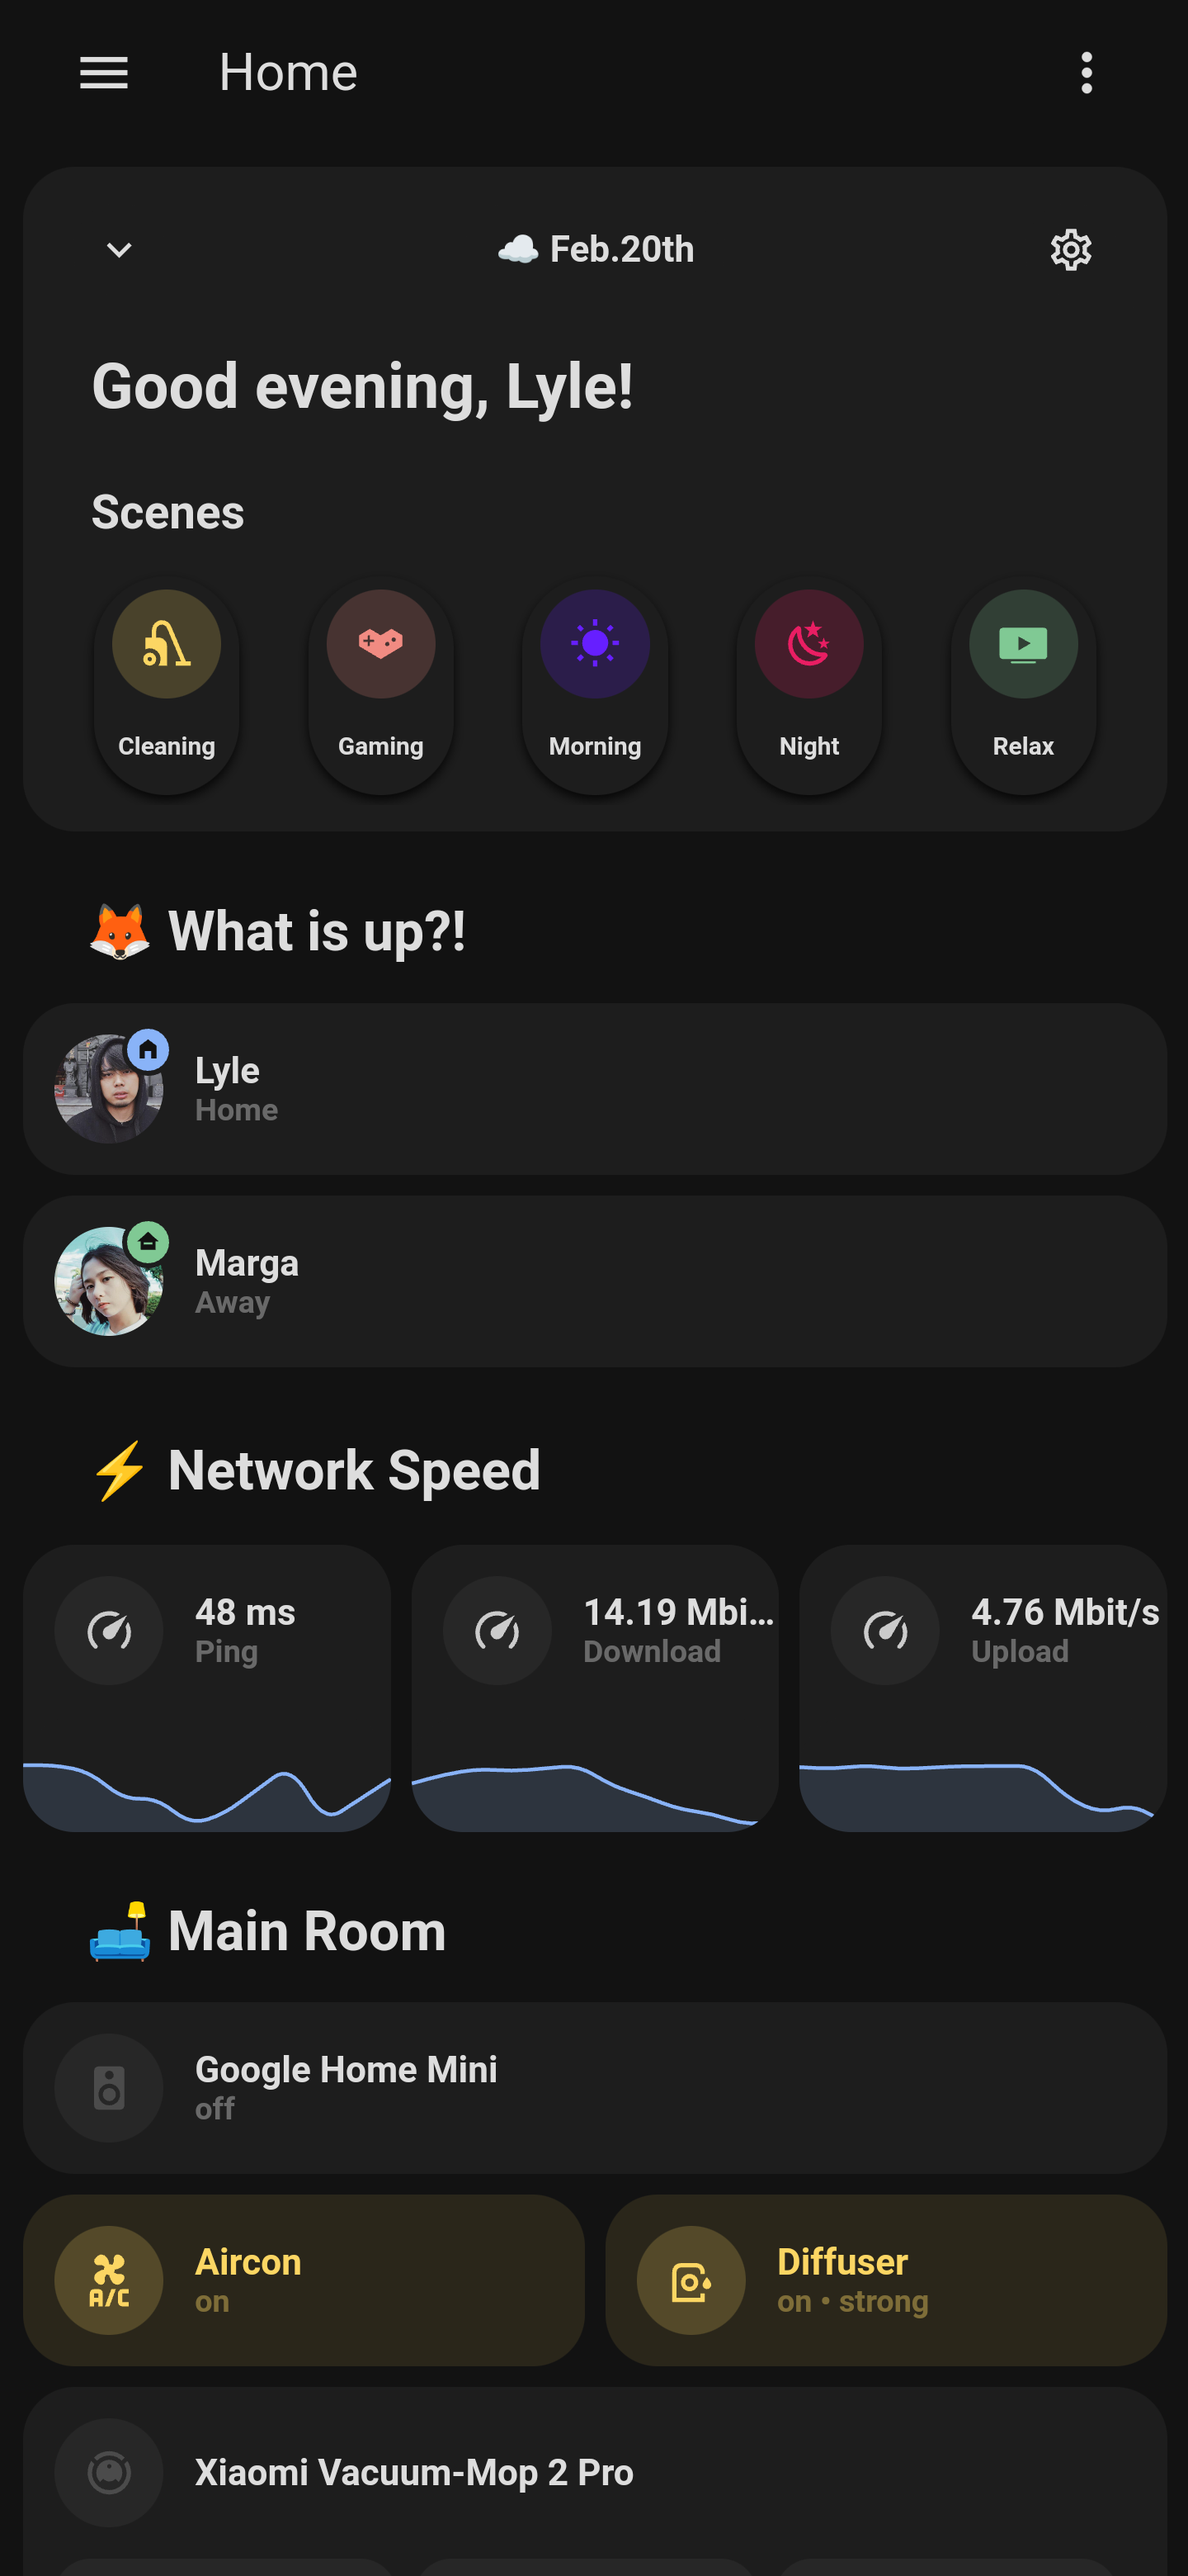
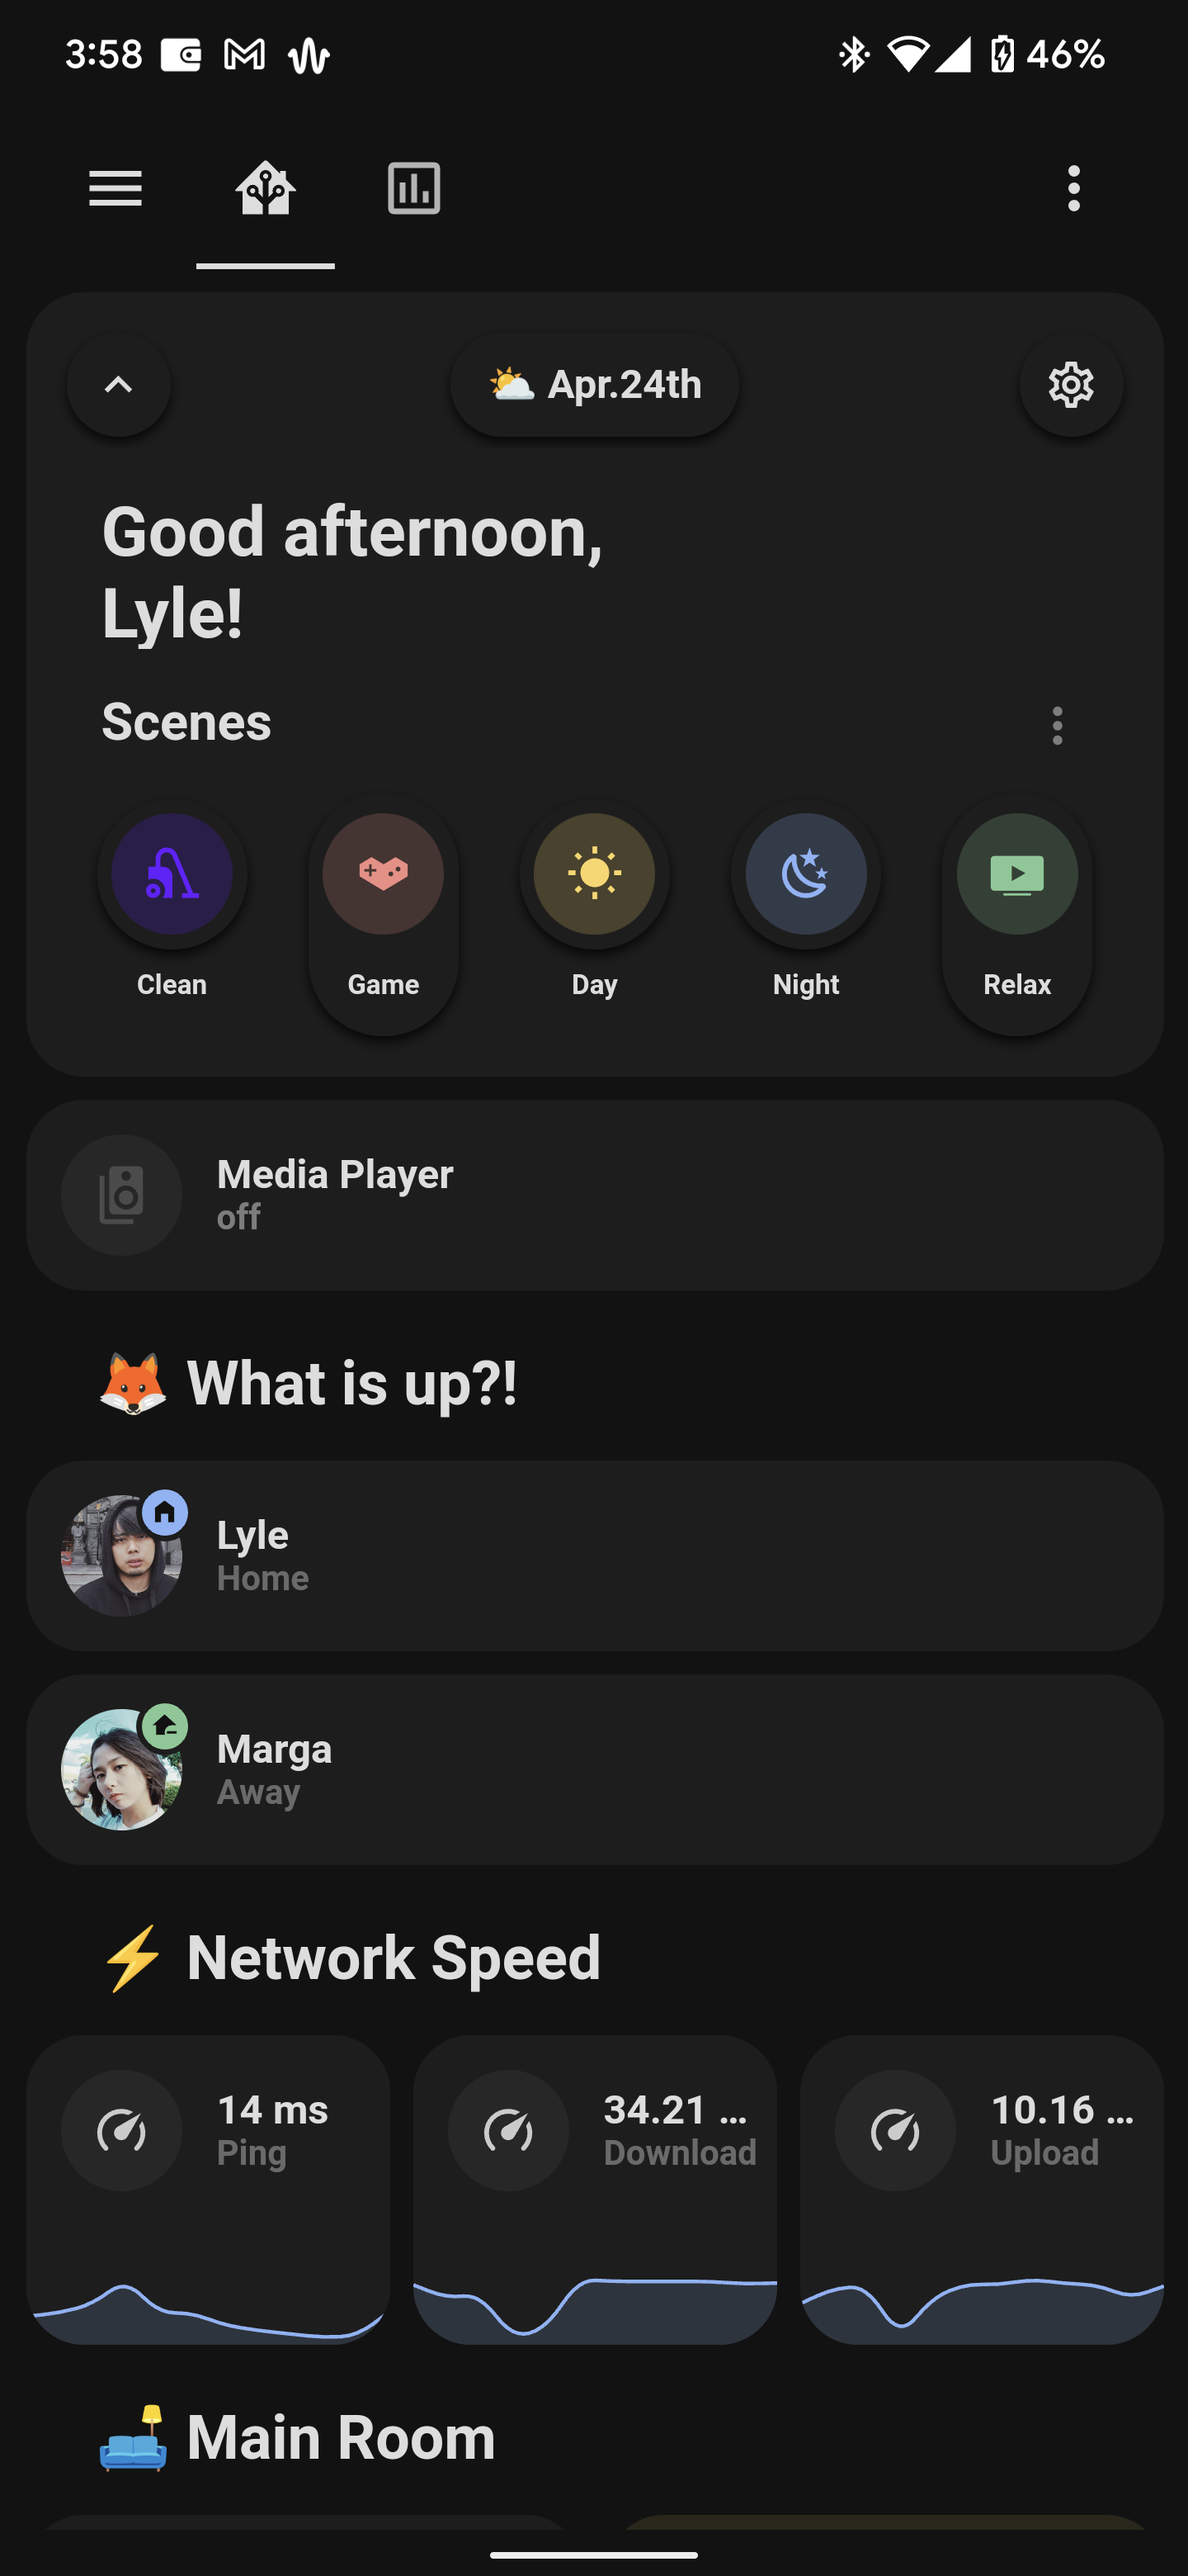
Update preview and add status page

diff --git a/README.md b/README.md
@@ -16,6 +16,9 @@ Konnichiwassup! These are the [UI Lovelace Minimalist](https://ui-lovelace-minim
     <TD>
     <img src="https://raw.githubusercontent.com/rairulyle/HA_UI-Lovelace-Minimalist-Dashboard/master/preview/00_02_overview_light.png"
     </TD>
+     <TD>
+    <img src="https://raw.githubusercontent.com/rairulyle/HA_UI-Lovelace-Minimalist-Dashboard/master/preview/00_01_status_light.png"
+    </TD>
 </TR>
 </TABLE>
 
@@ -27,7 +30,10 @@ Konnichiwassup! These are the [UI Lovelace Minimalist](https://ui-lovelace-minim
     <img src="https://raw.githubusercontent.com/rairulyle/HA_UI-Lovelace-Minimalist-Dashboard/master/preview/00_01_overview_dark.png"
     </TD>
     <TD>
-    <img src="https://raw.githubusercontent.com/rairulyle/HA_UI-Lovelace-Minimalist-Dashboard/master/preview/00_01_overview_dark.png"
+    <img src="https://raw.githubusercontent.com/rairulyle/HA_UI-Lovelace-Minimalist-Dashboard/master/preview/00_02_overview_dark.png"
+    </TD>
+    <TD>
+    <img src="https://raw.githubusercontent.com/rairulyle/HA_UI-Lovelace-Minimalist-Dashboard/master/preview/00_01_status_dark.png"
     </TD>
 </TR>
 </TABLE>
